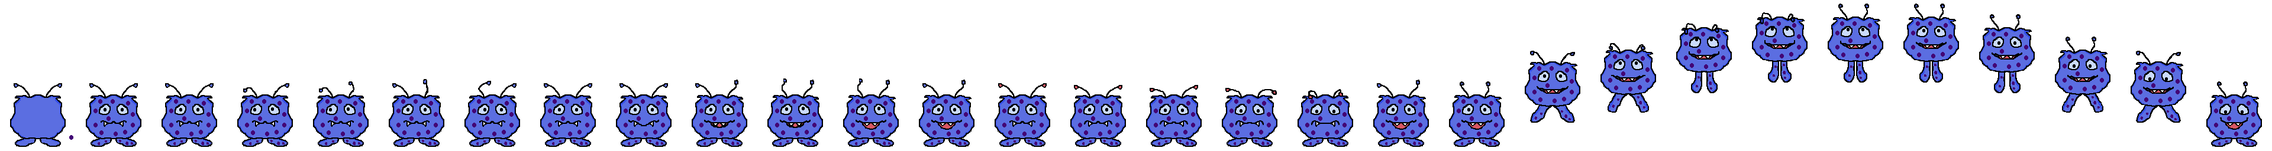
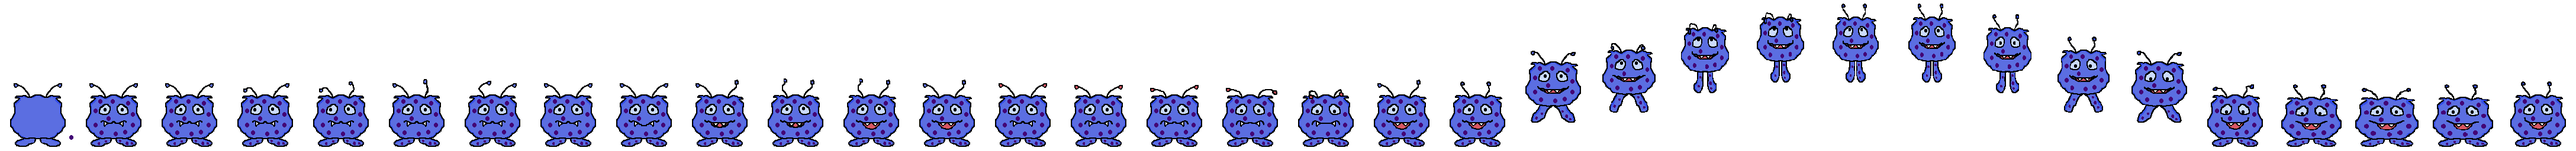
added media-responsiveness to phaser canvas and div

Changed region(s): [[0.0, 0.0938, 1.0, 0.9688]]

diff --git a/styles.css b/styles.css
@@ -278,7 +278,7 @@ h1 {
     position: relative;
     z-index: 0;
 }
-@media only screen and (max-width: 600px) {
+@media only screen and (max-width: 800px) {
     .project-box__link,
     .project-box__p {
         font-size: 0.6rem;
@@ -301,11 +301,37 @@ h1 {
     align-self: center;
     opacity: 0.5;
 }
+.game-dev {
+    display: flex;
+    flex-direction: column;
+    align-items: center;
+    justify-content: center;
+}
+.game-project__header {
+    justify-self: center;
+}
+.game-project__p {
+    width: 90%;
+    justify-self: center;
+}
 #game-container {
-    width: 800px;
-    height: 600px;
-    margin: 0 auto; /* center it */
+    width: 90%;
+    height: 100dvh;
+    min-height: auto;
+    display: flex;
+    justify-content: center;
+    align-items: center;
+    margin: 0 auto;
+}
+@media only screen and (max-width: 1000px) {
+    #game-container {
+        height: auto;
+        min-height: 100%;
+    }
 }
 canvas {
+    margin: 0 !important;
+    max-width: 100%;
+    height: auto;
     pointer-events: auto !important;
 }

diff --git a/phaser/sprites/Creature.js b/phaser/sprites/Creature.js
@@ -89,6 +89,15 @@ export class Creature extends Phaser.Physics.Arcade.Sprite {
             frameRate: 4,
             repeat: -1
         });
+        // scene.anims.create({
+        //     key: 'idle_excited',
+        //     frames: scene.anims.generateFrameNumbers('creature', {
+        //         frames: [
+        //             18, 19, 20, 21, 22, 23, 24, 24, 25, 26, 27, 28, 29, 29, 30,31,32,33                ]
+        //     }),
+        //     frameRate: 4,
+        //     repeat: -1
+        // });
     }
     updateMood() {
         const mood = creatureState.howIsCreatureFeeling();

diff --git a/index.html b/index.html
@@ -240,7 +240,7 @@
                             top secret whilst it's in development, I have
                             created this mini game. It is still very much a work
                             in progress at this point- coming soon: more
-                            minigames and things to buy in the shop!
+                            minigames and things to buy in the shop!↓
                         </p>
                     </div>
                     <div id="game-container"></div>

diff --git a/phaser/config.js b/phaser/config.js
@@ -11,7 +11,8 @@ export const config = {
     parent: 'game-container',
     scale: {
         mode: Phaser.Scale.FIT,
-        autoCenter: Phaser.Scale.CENTER_BOTH,
+        // autoCenter: Phaser.Scale.CENTER_BOTH,
+        // autoCenter: Phaser.Scale.NO_CENTER,
         width: 800,
         height: 500
     },
@@ -20,7 +21,6 @@ export const config = {
         default: 'arcade',
         arcade: {
             gravity: { x: 0, y: 0 }
-            // debug: true
         }
     },
     scene: [

diff --git a/phaser/scenes/GameScene.js b/phaser/scenes/GameScene.js
@@ -13,6 +13,14 @@ export class GameScene extends Phaser.Scene {
         super('GameScene');
     }
     create() {
+        this.scale.on('resize', (gameSize) => {
+            const width = gameSize.width;
+            const height = gameSize.height;
+
+            // Example: reposition background or UI
+            this.background.setDisplaySize(width, height);
+        });
+
         const background = this.add
             .image(0, 0, 'bg')
             .setOrigin(0)

diff --git a/phaser/scenes/BootScene.js b/phaser/scenes/BootScene.js
@@ -4,7 +4,7 @@ export default class BootScene extends Phaser.Scene {
     }
 
     preload() {
-        this.load.spritesheet('creature', 'phaser/assets/creature-ss.png', {
+        this.load.spritesheet('creature', 'phaser/assets/creature-ss-og.png', {
             frameWidth: 128,
             frameHeight: 256
         });
